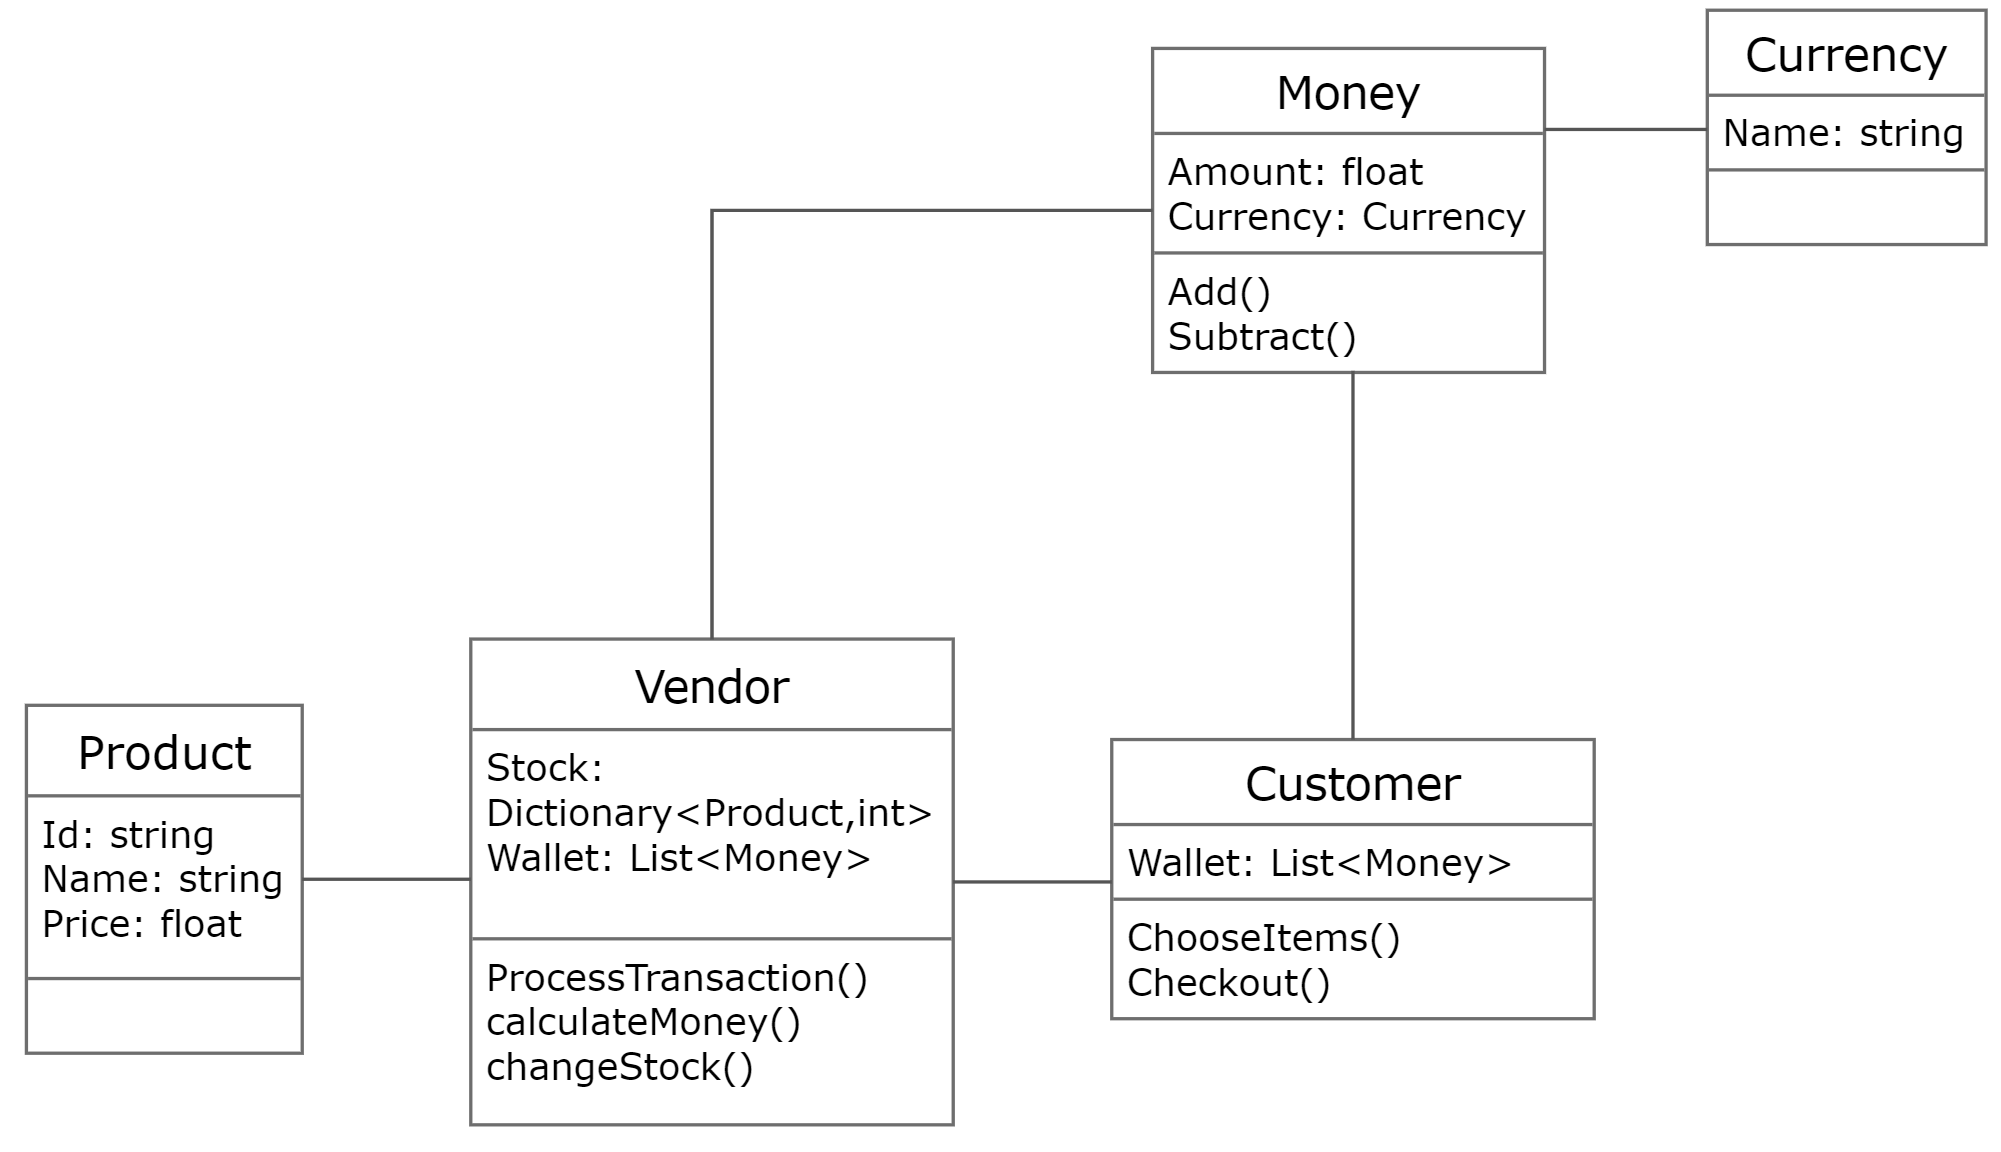
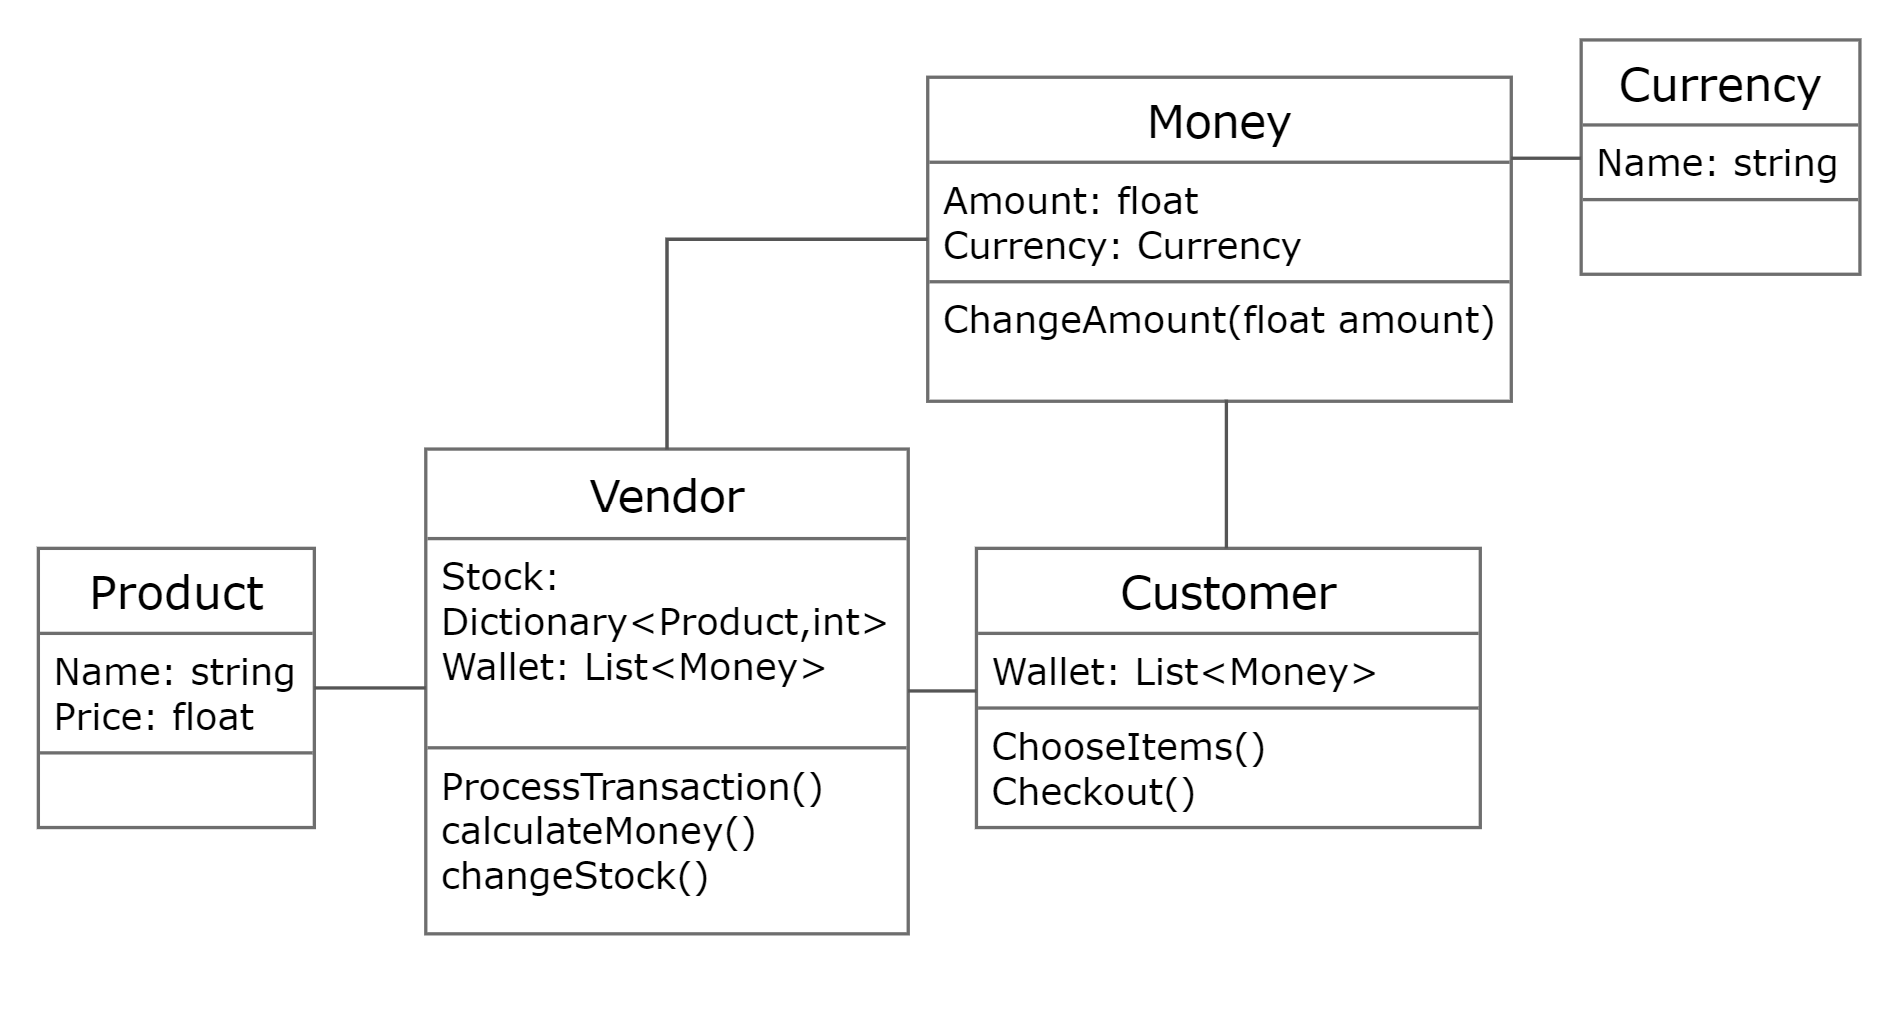
Added products, customers, vendors and more property tests

diff --git a/Tests/Core/MoneyTests.cs b/Tests/Core/MoneyTests.cs
@@ -1,4 +1,6 @@
 using BakeSale.Core;
+using BakeSale.Support;
+using BakeSale.Tests.Common;
 using Microsoft.VisualStudio.TestTools.UnitTesting;
 
 namespace BakeSale.Tests.Core
@@ -9,19 +11,24 @@ namespace BakeSale.Tests.Core
         [TestMethod]
         public void Amount()
         {
-            IsProperty(() => BaseObj.Amount);
+            IsProperty(() => ClassObj.Amount);
         }
 
         [TestMethod]
         public void Currency()
         {
-            IsReadOnlyProperty(BaseObj, "Currency", BaseObj.Currency);
+            IsReadOnlyProperty(ClassObj, "Currency", ClassObj.Currency);
         }
 
         [TestMethod]
-        public void TestChangeMoneyAmount()
+        public void TestChangeAmount()
         {
-
+            float initialValue = ClassObj.Amount;
+            float amountToChange = GetRandom.Float();
+            ClassObj.ChangeAmount(amountToChange);
+            Assert.AreEqual(initialValue + amountToChange, ClassObj.Amount);
+            ClassObj.ChangeAmount(-amountToChange);
+            Assert.AreEqual(initialValue, ClassObj.Amount);
         }
     }
 }

diff --git a/Tests/Common/BaseTest.cs b/Tests/Common/BaseTest.cs
@@ -2,12 +2,12 @@ using System;
 using BakeSale.Support;
 using Microsoft.VisualStudio.TestTools.UnitTesting;
 
-namespace BakeSale.Tests
+namespace BakeSale.Tests.Common
 {
     [TestClass]
     public abstract class BaseTest<TClass, TBaseClass>
     {
-        protected TClass BaseObj;
+        protected TClass ClassObj;
         protected Type Type;
 
         [TestInitialize]
@@ -23,7 +23,7 @@ namespace BakeSale.Tests
             Assert.AreEqual(typeof(TBaseClass), Type.BaseType);
         }
 
-        protected static void IsNullableProperty<T>(Func<T> get, Action<T> set)
+        protected static void IsNullablePublicProperty<T>(Func<T> get, Action<T> set)
         {
             IsPublicProperty(get, set);
             set(default);

diff --git a/Tests/Common/ClassTest.cs b/Tests/Common/ClassTest.cs
@@ -1,6 +1,6 @@
 using Microsoft.VisualStudio.TestTools.UnitTesting;
 
-namespace BakeSale.Tests
+namespace BakeSale.Tests.Common
 {
     [TestClass]
     public abstract class ClassTest<TClass, TBaseClass> : BaseTest<TClass, TBaseClass> where TClass : new()
@@ -9,14 +9,14 @@ namespace BakeSale.Tests
         [TestInitialize]
         public override void TestInitialize()
         {
-            BaseObj = new TClass();
-            Type = BaseObj.GetType();
+            ClassObj = new TClass();
+            Type = ClassObj.GetType();
         }
 
         [TestMethod]
         public void CanCreateTest()
         {
-            Assert.IsNotNull(BaseObj);
+            Assert.IsNotNull(ClassObj);
         }
 
 

diff --git a/Tests/Core/ProductTests.cs b/Tests/Core/ProductTests.cs
@@ -1,0 +1,22 @@
+using BakeSale.Core;
+using BakeSale.Tests.Common;
+using Microsoft.VisualStudio.TestTools.UnitTesting;
+
+namespace BakeSale.Tests.Core
+{
+    [TestClass]
+    public class ProductTests : ClassTest<Product, object>
+    {
+        [TestMethod]
+        public void Name()
+        {
+            IsNullablePublicProperty(() => ClassObj.Name, x => ClassObj.Name = x);
+        }
+
+        [TestMethod]
+        public void Price()
+        {
+            IsPublicProperty(() => ClassObj.Price, x => ClassObj.Price = x);
+        }
+    }
+}

diff --git a/Tests/Domain/VendorTests.cs b/Tests/Domain/VendorTests.cs
@@ -1,0 +1,22 @@
+using BakeSale.Domain;
+using BakeSale.Tests.Common;
+using Microsoft.VisualStudio.TestTools.UnitTesting;
+
+namespace BakeSale.Tests.Domain
+{
+    [TestClass]
+    public class VendorTests : ClassTest<Vendor, object>
+    {
+        [TestMethod]
+        public void Wallet()
+        {
+            IsNullablePublicProperty(() => ClassObj.Wallet, x => ClassObj.Wallet = x);
+        }
+
+        [TestMethod]
+        public void Stock()
+        {
+            //Todo: get it working
+        }
+    }
+}

diff --git a/Tests/Domain/CustomerTests.cs b/Tests/Domain/CustomerTests.cs
@@ -1,0 +1,16 @@
+using BakeSale.Domain;
+using BakeSale.Tests.Common;
+using Microsoft.VisualStudio.TestTools.UnitTesting;
+
+namespace BakeSale.Tests.Domain
+{
+    [TestClass]
+    public class CustomerTests : ClassTest<Customer, object>
+    {
+        [TestMethod]
+        public void Wallet()
+        {
+            IsNullablePublicProperty(() => ClassObj.Wallet, x => ClassObj.Wallet = x);
+        }
+    }
+}

diff --git a/Tests/Core/CurrencyTests.cs b/Tests/Core/CurrencyTests.cs
@@ -1,4 +1,5 @@
 using BakeSale.Core;
+using BakeSale.Tests.Common;
 using Microsoft.VisualStudio.TestTools.UnitTesting;
 
 namespace BakeSale.Tests.Core
@@ -9,7 +10,7 @@ namespace BakeSale.Tests.Core
         [TestMethod]
         public void Name()
         {
-            IsReadOnlyProperty(BaseObj, "Name", BaseObj.Name);
+            IsReadOnlyProperty(ClassObj, "Name", ClassObj.Name);
         }
     }
 }

diff --git a/Domain/Customer.cs b/Domain/Customer.cs
@@ -1,0 +1,20 @@
+using System.Collections.Generic;
+using BakeSale.Core;
+
+namespace BakeSale.Domain
+{
+    public class Customer
+    {
+        public List<Money> Wallet { get; set; }
+
+        public void ChooseItems()
+        {
+            //Todo
+        }
+
+        public void CheckOut()
+        {
+            //Todo
+        }
+    }
+}

diff --git a/Domain/Vendor.cs b/Domain/Vendor.cs
@@ -1,0 +1,16 @@
+using System.Collections.Generic;
+using BakeSale.Core;
+
+namespace BakeSale.Domain
+{
+    public class Vendor
+    {
+        public Dictionary<Product,int> Stock { get; set; }
+        public List<Money> Wallet { get; set; }
+
+        public void ProcessTransaction()
+        {
+            //Todo
+        }
+    }
+}

diff --git a/Core/Money.cs b/Core/Money.cs
@@ -5,7 +5,7 @@
         public float Amount { get; private set; }
         public Currency Currency { get; }
 
-        public void ChangeMoneyAmount(float amount)
+        public void ChangeAmount(float amount)
         {
             Amount += amount;
         }

diff --git a/Tests/Common/SealedClassTest.cs b/Tests/Common/SealedClassTest.cs
@@ -1,6 +1,6 @@
 using Microsoft.VisualStudio.TestTools.UnitTesting;
 
-namespace BakeSale.Tests
+namespace BakeSale.Tests.Common
 {
     [TestClass]
     public abstract class SealedClassTest<TClass, TBaseClass> : ClassTest<TClass, TBaseClass> where TClass : new()

diff --git a/Tests/Common/AbstractClassTest.cs b/Tests/Common/AbstractClassTest.cs
@@ -1,6 +1,6 @@
 using Microsoft.VisualStudio.TestTools.UnitTesting;
 
-namespace BakeSale.Tests
+namespace BakeSale.Tests.Common
 {
     [TestClass]
     public abstract class AbstractClassTest<TClass, TBaseClass> : BaseTest<TClass, TBaseClass>
